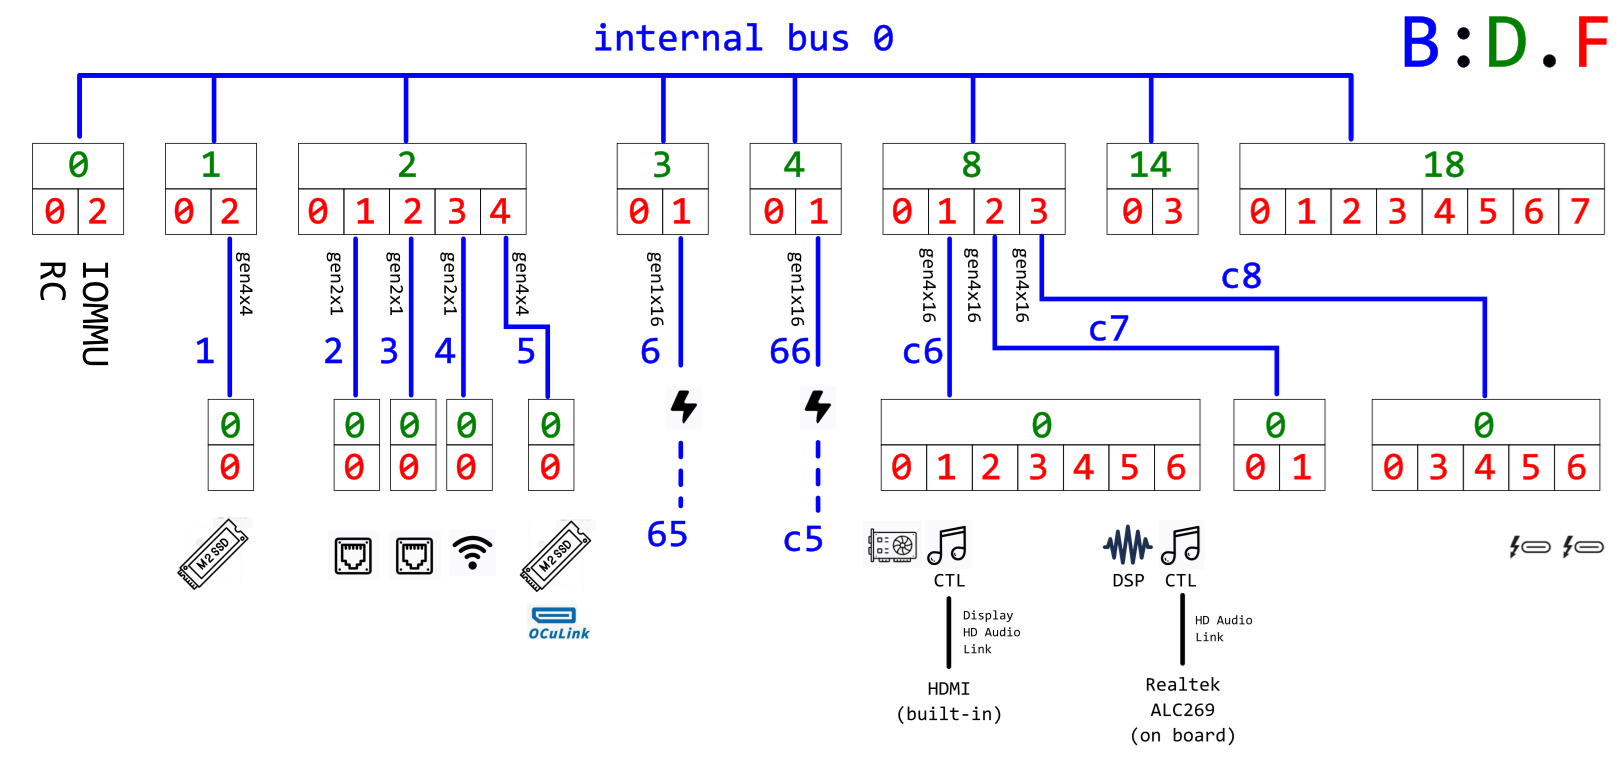
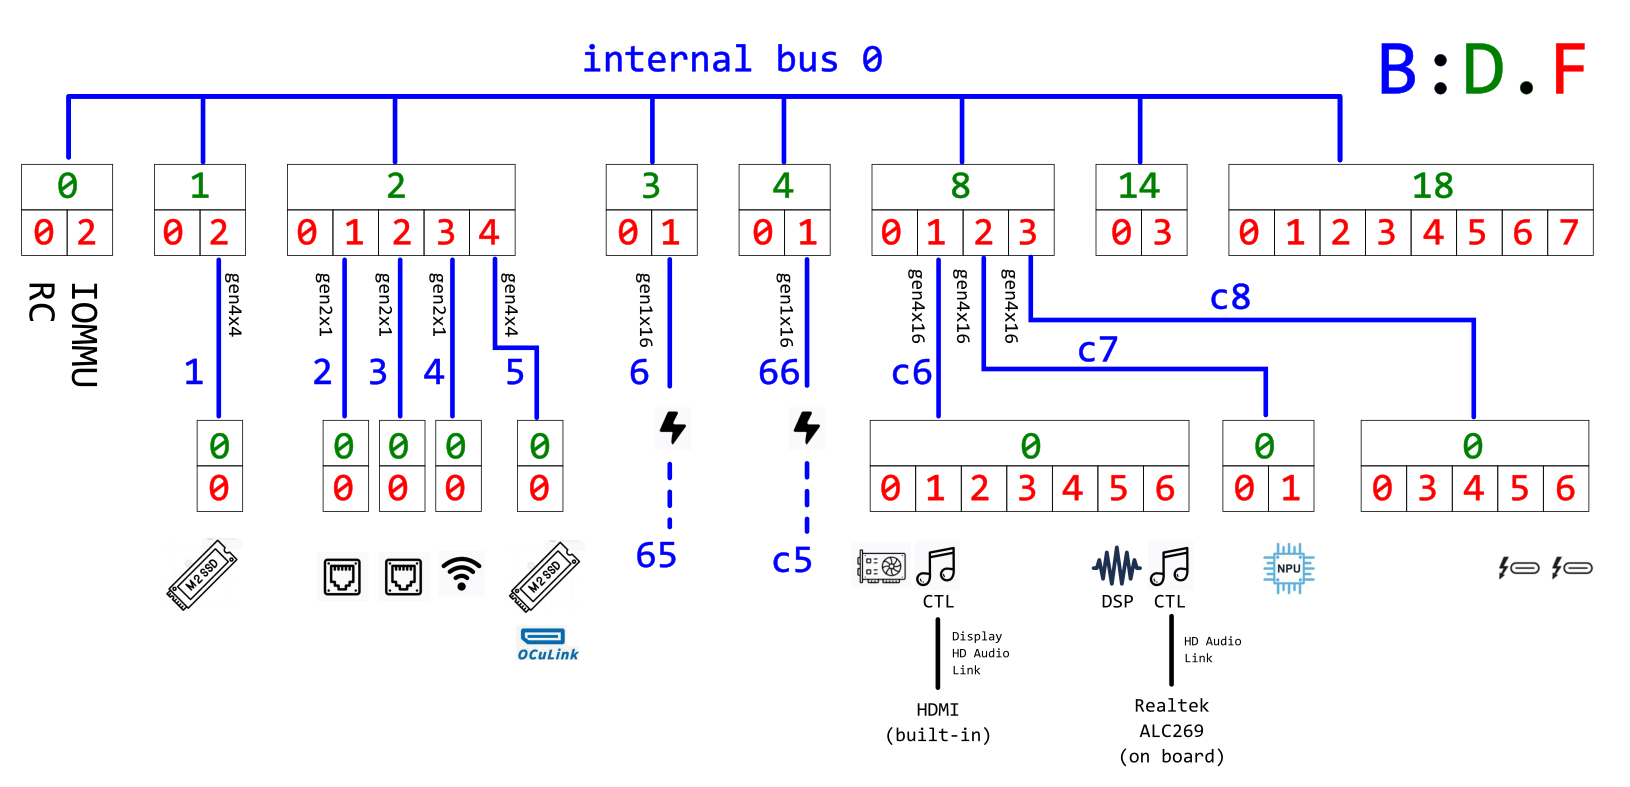
update pve-8.4-1_minisforum-um880pro.md

diff --git a/pve-8.4-1_minisforum-um880pro/pve-8.4-1_minisforum-um880pro.md b/pve-8.4-1_minisforum-um880pro/pve-8.4-1_minisforum-um880pro.md
@@ -1,7 +1,7 @@
 # Background
 
 - Created: 2025.6.29
-- Last Update: 2025.7.2
+- Last Update: 2025.7.15
 
 After testing iGPU passthrough on the [HP EliteDesk 800 G4 DM](https://github.com/xiongyw/docs/blob/master/pve-8.4-1_hp-elitedesk-800-g4-dm.md) and [Lenovo M920x Tiny](https://github.com/xiongyw/docs/blob/master/pve-8.4-1_lenovo-m920x-tiny.md) (both with Intel UHD Graphics 630), I decided to test AMD's iGPU. I purchased a Mini PC, the [Minisforum `UM880PRO`](https://www.minisforum.com/pages/product-info), equipped with an AMD Ryzen 7 8845HS CPU and integrated an iGPU `Radeon 780m Graphics (Phoenix3)`.
 
@@ -40,7 +40,7 @@ devcon.exe enable "PCI\VEN_1002&DEV_1900*"
 devcon.exe enable "HDAUDIO\FUNC_01&VEN_1002&DEV_AA01*"
 ```
 
-After this step, goal `a)` was achieved, while goal `b)` was not.
+After this step, goal `a)` was achieved, while goal `b)` not.
 
 ## VM hook on Host
 
@@ -818,6 +818,29 @@ Note that I installed `netbird` on pve host which has a static ip, so here I can
 
 For the 2nd port `enp3s0`, I may create another bridge `wanbr` binding it, and install a VM router/gateway between these two bridges...,  someday.
 
+PS (2025.7.16): adding eGPU via oculink will change the pcie topology thus the nic names. For having persistent nic names, do the following by renaming the nics to `eth0` and `eth1` respectively:
+
+```
+root@d12pve:~# cat /etc/udev/rules.d/70-persistent-nic.rules
+SUBSYSTEM=="net", ACTION=="add", ATTR{address}=="58:47:ca:7e:d4:39", NAME="eth0"
+SUBSYSTEM=="net", ACTION=="add", ATTR{address}=="58:47:ca:7e:d4:38", NAME="eth1"
+
+root@d12pve:~# cat /etc/network/interfaces
+source /etc/network/interfaces.d/*
+
+auto lo
+iface lo inet loopback
+
+iface eth0 inet manual
+iface eth1 inet manual
+
+auto lanbr
+iface lanbr inet dhcp
+        bridge-ports eth0
+        bridge-stp off
+        bridge-fd 0
+```
+
 # Create Win11 VM
 
 ## VM migration (failed)
@@ -1014,6 +1037,99 @@ I plan to passthrough the following PCIe devices/functions to Windows 11 VM:
 The following is a picture I made trying to depict the PCIe bus topology, when the 2nd M.2 slot is also populated with a NVMe SSD (`5:0.0`), so the bus numbers are slightly different from the list above:
 
 ![pcie topology](./images/pcie-topology.png)
+
+Note that when the 2nd M.2 slot is populated with a GPU card (via oculink), the PCIe topology is different from that of NVME SSD. The following are two test cases.
+
+
+oculink with nvidia gpu:
+
+```
+bruin@d12pve:~$ cat oculink-nvidia-quadro600.txt
+-[0000:00]-+-00.0  Advanced Micro Devices, Inc. [AMD] Phoenix Root Complex [1022:14e8]
+           +-00.2  Advanced Micro Devices, Inc. [AMD] Phoenix IOMMU [1022:14e9]
+           +-01.0  Advanced Micro Devices, Inc. [AMD] Phoenix Dummy Host Bridge [1022:14ea]
+           +-01.1-[01]--+-00.0  NVIDIA Corporation GF108GL [Quadro 600] [10de:0df8]
+           |            \-00.1  NVIDIA Corporation GF108 High Definition Audio Controller [10de:0bea]
+           +-01.2-[02]----00.0  Micron/Crucial Technology P310 NVMe PCIe SSD (DRAM-less) [c0a9:5426]
+           +-02.0  Advanced Micro Devices, Inc. [AMD] Phoenix Dummy Host Bridge [1022:14ea]
+           +-02.1-[03]----00.0  Realtek Semiconductor Co., Ltd. RTL8125 2.5GbE Controller [10ec:8125]
+           +-02.2-[04]----00.0  Realtek Semiconductor Co., Ltd. RTL8125 2.5GbE Controller [10ec:8125]
+           +-02.3-[05]----00.0  MEDIATEK Corp. MT7922 802.11ax PCI Express Wireless Network Adapter [14c3:0616]
+           +-03.0  Advanced Micro Devices, Inc. [AMD] Phoenix Dummy Host Bridge [1022:14ea]
+           +-03.1-[06-65]--
+           +-04.0  Advanced Micro Devices, Inc. [AMD] Phoenix Dummy Host Bridge [1022:14ea]
+           +-04.1-[66-c5]--
+           +-08.0  Advanced Micro Devices, Inc. [AMD] Phoenix Dummy Host Bridge [1022:14ea]
+           +-08.1-[c6]--+-00.0  Advanced Micro Devices, Inc. [AMD/ATI] Phoenix3 [1002:1900]
+           |            +-00.1  Advanced Micro Devices, Inc. [AMD/ATI] Rembrandt Radeon High Definition Audio Controller [1002:1640]
+           |            +-00.2  Advanced Micro Devices, Inc. [AMD] Phoenix CCP/PSP 3.0 Device [1022:15c7]
+           |            +-00.3  Advanced Micro Devices, Inc. [AMD] Device [1022:15b9]
+           |            +-00.4  Advanced Micro Devices, Inc. [AMD] Device [1022:15ba]
+           |            +-00.5  Advanced Micro Devices, Inc. [AMD] ACP/ACP3X/ACP6x Audio Coprocessor [1022:15e2]
+           |            \-00.6  Advanced Micro Devices, Inc. [AMD] Family 17h/19h HD Audio Controller [1022:15e3]
+           +-08.2-[c7]--+-00.0  Advanced Micro Devices, Inc. [AMD] Phoenix Dummy Function [1022:14ec]
+           |            \-00.1  Advanced Micro Devices, Inc. [AMD] AMD IPU Device [1022:1502]
+           +-08.3-[c8]--+-00.0  Advanced Micro Devices, Inc. [AMD] Phoenix Dummy Function [1022:14ec]
+           |            +-00.3  Advanced Micro Devices, Inc. [AMD] Device [1022:15c0]
+           |            +-00.4  Advanced Micro Devices, Inc. [AMD] Device [1022:15c1]
+           |            +-00.5  Advanced Micro Devices, Inc. [AMD] Pink Sardine USB4/Thunderbolt NHI controller [1022:1668]
+           |            \-00.6  Advanced Micro Devices, Inc. [AMD] Pink Sardine USB4/Thunderbolt NHI controller [1022:1669]
+           +-14.0  Advanced Micro Devices, Inc. [AMD] FCH SMBus Controller [1022:790b]
+           +-14.3  Advanced Micro Devices, Inc. [AMD] FCH LPC Bridge [1022:790e]
+           +-18.0  Advanced Micro Devices, Inc. [AMD] Phoenix Data Fabric; Function 0 [1022:14f0]
+           +-18.1  Advanced Micro Devices, Inc. [AMD] Phoenix Data Fabric; Function 1 [1022:14f1]
+           +-18.2  Advanced Micro Devices, Inc. [AMD] Phoenix Data Fabric; Function 2 [1022:14f2]
+           +-18.3  Advanced Micro Devices, Inc. [AMD] Phoenix Data Fabric; Function 3 [1022:14f3]
+           +-18.4  Advanced Micro Devices, Inc. [AMD] Phoenix Data Fabric; Function 4 [1022:14f4]
+           +-18.5  Advanced Micro Devices, Inc. [AMD] Phoenix Data Fabric; Function 5 [1022:14f5]
+           +-18.6  Advanced Micro Devices, Inc. [AMD] Phoenix Data Fabric; Function 6 [1022:14f6]
+           \-18.7  Advanced Micro Devices, Inc. [AMD] Phoenix Data Fabric; Function 7 [1022:14f7]
+```
+
+oculink with amd gpu:
+
+```
+$ cat oculink-radeon-hd6450.txt
+-[0000:00]-+-00.0  Advanced Micro Devices, Inc. [AMD] Phoenix Root Complex [1022:14e8]
+           +-00.2  Advanced Micro Devices, Inc. [AMD] Phoenix IOMMU [1022:14e9]
+           +-01.0  Advanced Micro Devices, Inc. [AMD] Phoenix Dummy Host Bridge [1022:14ea]
+           +-01.1-[01]--+-00.0  Advanced Micro Devices, Inc. [AMD/ATI] Caicos [Radeon HD 6450/7450/8450 / R5 230 OEM] [1002:6779]
+           |            \-00.1  Advanced Micro Devices, Inc. [AMD/ATI] Caicos HDMI Audio [Radeon HD 6450 / 7450/8450/8490 OEM / R5 230/235/235X OEM] [1002:aa98]
+           +-01.2-[02]----00.0  Micron/Crucial Technology P310 NVMe PCIe SSD (DRAM-less) [c0a9:5426]
+           +-02.0  Advanced Micro Devices, Inc. [AMD] Phoenix Dummy Host Bridge [1022:14ea]
+           +-02.1-[03]----00.0  Realtek Semiconductor Co., Ltd. RTL8125 2.5GbE Controller [10ec:8125]
+           +-02.2-[04]----00.0  Realtek Semiconductor Co., Ltd. RTL8125 2.5GbE Controller [10ec:8125]
+           +-02.3-[05]----00.0  MEDIATEK Corp. MT7922 802.11ax PCI Express Wireless Network Adapter [14c3:0616]
+           +-03.0  Advanced Micro Devices, Inc. [AMD] Phoenix Dummy Host Bridge [1022:14ea]
+           +-03.1-[06-65]--
+           +-04.0  Advanced Micro Devices, Inc. [AMD] Phoenix Dummy Host Bridge [1022:14ea]
+           +-04.1-[66-c5]--
+           +-08.0  Advanced Micro Devices, Inc. [AMD] Phoenix Dummy Host Bridge [1022:14ea]
+           +-08.1-[c6]--+-00.0  Advanced Micro Devices, Inc. [AMD/ATI] Phoenix3 [1002:1900]
+           |            +-00.1  Advanced Micro Devices, Inc. [AMD/ATI] Rembrandt Radeon High Definition Audio Controller [1002:1640]
+           |            +-00.2  Advanced Micro Devices, Inc. [AMD] Phoenix CCP/PSP 3.0 Device [1022:15c7]
+           |            +-00.3  Advanced Micro Devices, Inc. [AMD] Device [1022:15b9]
+           |            +-00.4  Advanced Micro Devices, Inc. [AMD] Device [1022:15ba]
+           |            +-00.5  Advanced Micro Devices, Inc. [AMD] ACP/ACP3X/ACP6x Audio Coprocessor [1022:15e2]
+           |            \-00.6  Advanced Micro Devices, Inc. [AMD] Family 17h/19h HD Audio Controller [1022:15e3]
+           +-08.2-[c7]--+-00.0  Advanced Micro Devices, Inc. [AMD] Phoenix Dummy Function [1022:14ec]
+           |            \-00.1  Advanced Micro Devices, Inc. [AMD] AMD IPU Device [1022:1502]
+           +-08.3-[c8]--+-00.0  Advanced Micro Devices, Inc. [AMD] Phoenix Dummy Function [1022:14ec]
+           |            +-00.3  Advanced Micro Devices, Inc. [AMD] Device [1022:15c0]
+           |            +-00.4  Advanced Micro Devices, Inc. [AMD] Device [1022:15c1]
+           |            +-00.5  Advanced Micro Devices, Inc. [AMD] Pink Sardine USB4/Thunderbolt NHI controller [1022:1668]
+           |            \-00.6  Advanced Micro Devices, Inc. [AMD] Pink Sardine USB4/Thunderbolt NHI controller [1022:1669]
+           +-14.0  Advanced Micro Devices, Inc. [AMD] FCH SMBus Controller [1022:790b]
+           +-14.3  Advanced Micro Devices, Inc. [AMD] FCH LPC Bridge [1022:790e]
+           +-18.0  Advanced Micro Devices, Inc. [AMD] Phoenix Data Fabric; Function 0 [1022:14f0]
+           +-18.1  Advanced Micro Devices, Inc. [AMD] Phoenix Data Fabric; Function 1 [1022:14f1]
+           +-18.2  Advanced Micro Devices, Inc. [AMD] Phoenix Data Fabric; Function 2 [1022:14f2]
+           +-18.3  Advanced Micro Devices, Inc. [AMD] Phoenix Data Fabric; Function 3 [1022:14f3]
+           +-18.4  Advanced Micro Devices, Inc. [AMD] Phoenix Data Fabric; Function 4 [1022:14f4]
+           +-18.5  Advanced Micro Devices, Inc. [AMD] Phoenix Data Fabric; Function 5 [1022:14f5]
+           +-18.6  Advanced Micro Devices, Inc. [AMD] Phoenix Data Fabric; Function 6 [1022:14f6]
+           \-18.7  Advanced Micro Devices, Inc. [AMD] Phoenix Data Fabric; Function 7 [1022:14f7]
+```
 
 The following is an image take from [techpowerup](https://www.techpowerup.com/cpu-specs/ryzen-7-8845hs.c3400) showing the components and lane allocation inside AMD Ryzen 7 8845HS:
 
@@ -1943,11 +2059,197 @@ Promising...now it's easy to add a hook script for the vm, to automate the proce
 
 - PIP and [`Input-Leap`](https://github.com/input-leap/input-leap): the debugging process for iGPU passthrough involves at least two PCs, one is the working environment for web-searching and notes-taking, and the other is the target PVE/VM system. Working with two sets of KVM is a bit awkward, and it's not ideal even with a KVM switch (as you can only interact with one PC at a time). I found out that with a big display supporting Picture in Picture (PIP) is a bless (two PCs can display their desktop side by side on same monitor). With `input-leap` installed/configured on both PCs, the same set of keyboard/mouse will be automatically shared between the two PCs, with seamless ownership transition according to the current mouse focus point. Btw, I am using `DELL U3818DW` with 3840*1600 resolution, supporting several PIP modes. The monitor also supports "Power Delivery (PD) with DisplayPort Alt Mode", matching the same feature of `UM880Pro`.
 
+- Passthrough `c5:0.6`: this is the HD audio controller connecting to the `Realtek ALC269` on the mother board. Passthrough it to windows VM also enable the `Realtek ALC269` and the microphone.
+
+- Passthrought NPU (`c6:0.2`): tested status on 2025.7.11 with driver from [`NPU_RAI1.5_280_WHQL.zip`](https://ryzenai.docs.amd.com/en/latest/inst.html#install-npu-drivers):
+    - in native windows 11, NPU0 detected successfully in both device manager and task manager, with no flaw.
+    - in windwos 11 vm, device manager reports error code 43, and task manager does not show NPU.
+
 - TODO:
     - Testing the passthrough of `c5:0.5` and `c5:0.6` as well.
         - `c5:0.5` is audio related DSP which may offload task from cpu;
-        - `c5:0.6` is the HD audio controller connecting to the `Realtek ALC269` on the mother board. This may bring ADC/DAC capabilities to the VM (e.g., sound recording).
     - Don't know what to do with the WIFI yet. Keeping it in the PVE host to setup an AP, or passthrough to Windows as well (for what purpose)?
+
+# Resource Mapping
+
+The problem: when the 2nd M.2 slot is populated (or connected another device via oculink), the BDF ids of some PCIe devices will be changed. This will cause the Windows VM starts fail due to wrong (or non-existing device) devices been passed through. The solution is use [Resource Mapping](https://pve.proxmox.com/wiki/QEMU/KVM_Virtual_Machines#resource_mapping) for pcie devices in VM config, instead of using BDF.
+
+- Add the mappings from WebUI: `Datacenter -> Resource Mapping`. Note that for adding iGPU, use the full BDF (`c5:00.0`) instead of `c5:00` (just ignore the warning). The cmd line syntax is:
+
+    ```
+    # pvesh create /cluster/mapping/pci --id <mapping_id> --map node=<node_name>,path=<pci_path>,id=<vendor_id>:<device_id>[,iommugroup=<iommu_group_number>][,subsystem-id=<subsystem_vendor_id>:<subsystem_device_id>]
+    ```
+
+- Check the mappings from cli:
+
+    ```
+    root@d12pve:~# pvesh ls /cluster/mapping/pci
+    -rw-d        hdaudio
+    -rw-d        hdmi-audio
+    -rw-d        igpu
+    -rw-d        npu
+    root@d12pve:~#
+    root@d12pve:~# pvesh get /cluster/mapping/pci/igpu
+    ┌────────┬─────────────────────────────────────────────────────────────────────────────────────┐
+    │ key    │ value                                                                               │
+    ╞════════╪═════════════════════════════════════════════════════════════════════════════════════╡
+    │ digest │ faf825d400c2860deecfd5945ce7a6e3648162a5                                            │
+    ├────────┼─────────────────────────────────────────────────────────────────────────────────────┤
+    │ map    │ ["id=1002:1900,iommugroup=18,node=d12pve,path=0000:c5:00.0,subsystem-id=1f4c:b016"] │
+    ├────────┼─────────────────────────────────────────────────────────────────────────────────────┤
+    │ type   │ pci                                                                                 │
+    └────────┴─────────────────────────────────────────────────────────────────────────────────────┘
+    root@d12pve:~# pvesh get /cluster/mapping/pci/hdmi-audio
+    ┌────────┬─────────────────────────────────────────────────────────────────────────────────────┐
+    │ key    │ value                                                                               │
+    ╞════════╪═════════════════════════════════════════════════════════════════════════════════════╡
+    │ digest │ faf825d400c2860deecfd5945ce7a6e3648162a5                                            │
+    ├────────┼─────────────────────────────────────────────────────────────────────────────────────┤
+    │ map    │ ["id=1002:1640,iommugroup=19,node=d12pve,path=0000:c5:00.1,subsystem-id=1f4c:b016"] │
+    ├────────┼─────────────────────────────────────────────────────────────────────────────────────┤
+    │ type   │ pci                                                                                 │
+    └────────┴─────────────────────────────────────────────────────────────────────────────────────┘
+    root@d12pve:~# pvesh get /cluster/mapping/pci/hdaudio
+    ┌────────┬─────────────────────────────────────────────────────────────────────────────────────┐
+    │ key    │ value                                                                               │
+    ╞════════╪═════════════════════════════════════════════════════════════════════════════════════╡
+    │ digest │ faf825d400c2860deecfd5945ce7a6e3648162a5                                            │
+    ├────────┼─────────────────────────────────────────────────────────────────────────────────────┤
+    │ map    │ ["id=1022:15e3,iommugroup=24,node=d12pve,path=0000:c5:00.6,subsystem-id=1f4c:b016"] │
+    ├────────┼─────────────────────────────────────────────────────────────────────────────────────┤
+    │ type   │ pci                                                                                 │
+    └────────┴─────────────────────────────────────────────────────────────────────────────────────┘
+    root@d12pve:~# pvesh get /cluster/mapping/pci/npu
+    ┌────────┬─────────────────────────────────────────────────────────────────────────────────────┐
+    │ key    │ value                                                                               │
+    ╞════════╪═════════════════════════════════════════════════════════════════════════════════════╡
+    │ digest │ faf825d400c2860deecfd5945ce7a6e3648162a5                                            │
+    ├────────┼─────────────────────────────────────────────────────────────────────────────────────┤
+    │ map    │ ["id=1022:1502,iommugroup=26,node=d12pve,path=0000:c6:00.1,subsystem-id=1f4c:b016"] │
+    ├────────┼─────────────────────────────────────────────────────────────────────────────────────┤
+    │ type   │ pci                                                                                 │
+    └────────┴─────────────────────────────────────────────────────────────────────────────────────┘
+    root@d12pve:~#
+    root@d12pve:~# cat /etc/pve/mapping/pci.cfg
+    hdmi-audio
+            map id=1002:1640,iommugroup=19,node=d12pve,path=0000:c5:00.1,subsystem-id=1f4c:b016
+
+    hdaudio
+            map id=1022:15e3,iommugroup=24,node=d12pve,path=0000:c5:00.6,subsystem-id=1f4c:b016
+
+    npu
+            map id=1022:1502,iommugroup=26,node=d12pve,path=0000:c6:00.1,subsystem-id=1f4c:b016
+
+    igpu
+            map id=1002:1900,iommugroup=18,node=d12pve,path=0000:c5:00.0,subsystem-id=1f4c:b016
+    ```
+
+- Change the VM config, by using mapping names:
+
+    - Before: 
+    
+        ```
+        root@d12pve:~# qm config 100|grep hostpci
+        hostpci0: 0000:c5:00.0,pcie=1,x-vga=1,romfile=vbios_1002_1900.bin
+        hostpci1: 0000:c5:00.1,pcie=1,romfile=AMDGopDriver_8845hs.rom
+        hostpci2: 0000:c5:00.6,pcie=1
+        hostpci3: 0000:c6:00.1,pcie=1
+        ```
+
+    - After: 
+
+        ```    
+        root@d12pve:~# qm config 100|grep hostpci
+        hostpci0: mapping=igpu,pcie=1,x-vga=1,romfile=vbios_1002_1900.bin
+        hostpci1: mapping=hdmi-audio,pcie=1,romfile=AMDGopDriver_8845hs.rom
+        hostpci2: mapping=hdaudio,pcie=1
+        hostpci3: mapping=npu,pcie=1
+        ```
+
+The following is the resource mapping status shown in WebUI, when the M.2 slot kept empty (i.e., no BDF change):
+
+![Resource Mapping status](./images/pcie-resource-mapping.png)
+
+After adding an eGPU card to the 2nd M.2 slot via oculink, the resource mapping status shows failures. And the VM 100 starts failed with following error msg: `PCI device mapping invalid (hardware probably changed): pci device '0000:c5:00.0' not found`.
+
+The solution is "dynamically updating the resource mapping before vm start", using the script below:
+
+```
+root@d12pve:~# cat update-resource-mapping.sh
+#!/bin/bash
+
+# pve node name
+NODE=$(hostname)
+
+#  each row has two fields: "map_id  dev_id"
+RES=(
+      "igpu          1002:1900"
+      "hdmi-audio    1002:1640"
+      "hdaudio       1022:15e3"
+      "npu           1022:1502"
+)
+
+for row in "${RES[@]}"; do
+    IFS=' ' read -r name id <<< "$row"
+    fullpath=$(dirname $(grep -l "PCI_ID=${id^^}" /sys/bus/pci/devices/*/uevent))
+    path=$(basename $fullpath)
+    iommugroup=$(basename $(readlink -f $fullpath/iommu_group))
+    subsystem=$(lspci -s $path -vn|grep Subsystem|awk '{print $2}')
+
+    echo "<6>Update Resource Mapping: $name=> node=$NODE,id=$id,path=$path,iommugroup=$iommugroup,subsystem-id=$subsystem" > /dev/kmsg
+    pvesh delete /cluster/mapping/pci/$name
+    pvesh create /cluster/mapping/pci --id $name --map node=$NODE,path=$path,id=$id,iommugroup=$iommugroup,subsystem-id=$subsystem
+    pvesh get /cluster/mapping/pci/$name
+done
+```
+
+Invoke the script above in `pre-start` hook:
+
+```
+root@d12pve:~# cat /var/lib/vz/snippets/vm100-hooks.sh
+#!/usr/bin/bash
+
+# ref: https://gist.github.com/kiler129/215e2c8de853209ca429ad5ed40ce128
+
+set -e -o errexit -o pipefail -o nounset
+
+# Do not modify these variables (set by Proxmox when calling the script)
+vmId="$1"
+runPhase="$2"
+echo ">>> Entering $runPhase on VM=$vmId" > /dev/kmsg
+
+case "$runPhase" in
+    pre-start)
+      echo "### rescan pcie bus..." > /dev/kmsg
+      echo 1 > /sys/bus/pci/rescan
+      sleep 2
+      /root/update-resource-mapping.sh
+      ;;
+    post-start)
+      ;;
+    pre-stop)
+      echo "### remove gpu/snd devices..." > /dev/kmsg
+      GFX_PATH=$(dirname $(grep -l "PCI_ID=1002:1900" /sys/bus/pci/devices/*/uevent))
+      SND_PATH=$(dirname $(grep -l "PCI_ID=1002:1640" /sys/bus/pci/devices/*/uevent))
+      echo 1 > ${GFX_PATH}/remove
+      sleep 1
+      echo 1 > ${SND_PATH}/remove
+      sleep 1
+      ;;
+    post-stop)
+      echo "### rescan pcie bus..." > /dev/kmsg
+      echo 1 > /sys/bus/pci/rescan
+      sleep 2
+      ;;
+    *)
+      echo "### Unknown run phase \"$runPhase\"!" > /dev/kmsg
+      ;;
+esac
+
+echo "<<< Leaving $runPhase on VM=$vmId" > /dev/kmsg
+```
+
+
 
 # References
 
